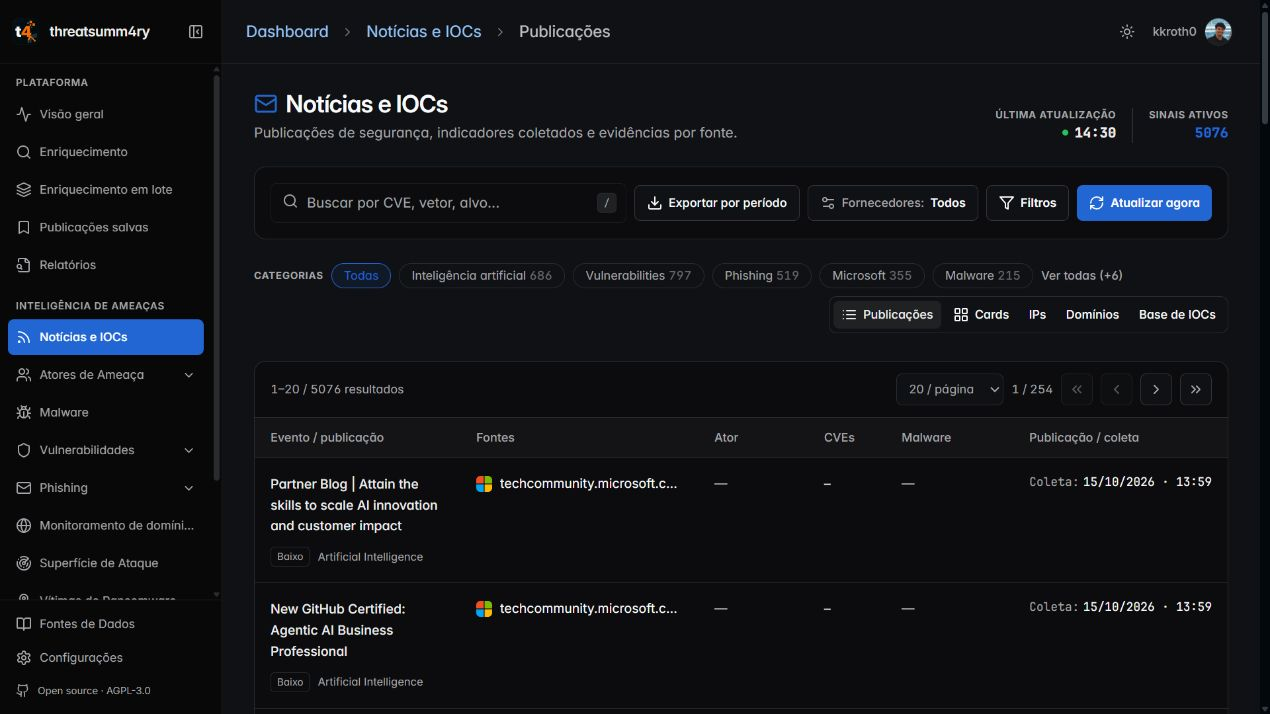
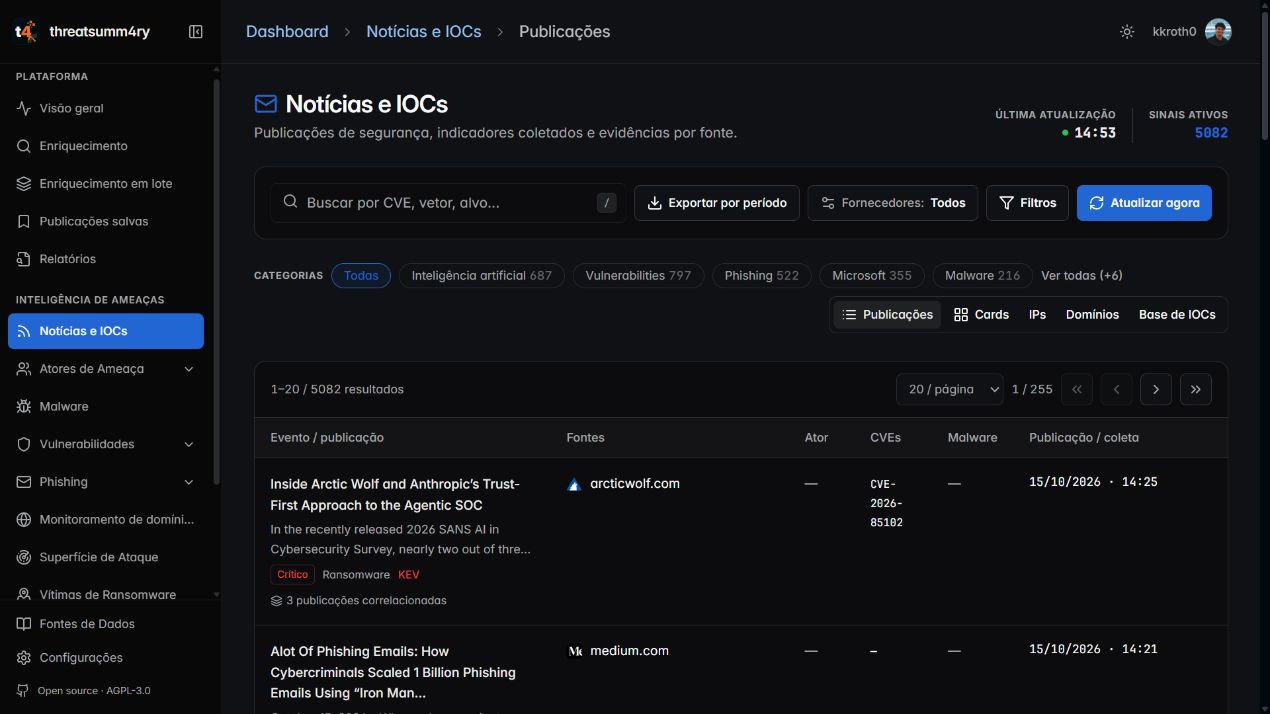
Record production correlation replay, completed cycle and final integrity checks

diff --git a/docs/qa/2026-10-15/news-feed-performance.md b/docs/qa/2026-10-15/news-feed-performance.md
@@ -129,5 +129,50 @@ Regressões cobrem reutilização da mesma instância de evento/fonte após relo
 canônico, ausência de gravação redundante do arquivo, fingerprint estável no
 inventário e aplicação de mudanças reais nos hashes/atribuições. 725 testes backend
 passaram. Benchmark local de 1.000 publicações com entidades e reload canônico:
-776 → 15 ms, resultado igual e 1.000 eventos reaproveitados. A medição em VPS será
-registrada após a publicação desta correção.
+776 → 15 ms, resultado igual e 1.000 eventos reaproveitados.
+
+### Publicação e reprodução com a base real
+
+- Release `0702bc5126aafbc5548a5233903977258698288a`.
+- CI [38780242772](https://github.com/kkroth0/thre4th-summary/actions/runs/38780242772):
+  725 backend + 255 frontend/marca, TypeScript/build aprovados, lint sem erros.
+- [VPS 38780556389](https://github.com/kkroth0/thre4th-summary/actions/runs/38780556389)
+  e [Cloudflare 38780556143](https://github.com/kkroth0/thre4th-summary/actions/runs/38780556143)
+  concluídos com sucesso.
+- Replay somente em memória [38780974320](https://github.com/kkroth0/thre4th-summary/actions/runs/38780974320),
+  usando o módulo efetivamente publicado e o snapshot SQLite real: 2.700
+  publicações em 3.120 ms, todos os 5.062 eventos reaproveitados por referência,
+  zero publicações sem evento e zero mudanças de vínculo. Não grava no banco
+  nem chama fontes externas. Script de diagnóstico no ref `d70d3ba`.
+- Leitura validada do banco nessa execução: 10.815 ms (baseline 29.501 ms).
+  Resposta HTTP fria: 1.503 ms. Os números variam com a carga da VPS; o tempo de
+  replay não equivale ao tempo total da coleta com rede, extração e persistência.
+- Navegador após publicação: 5.082 eventos, sem novo erro de carregamento.
+  A captura foi atualizada para esse estado. As fontes externas continuam
+  apresentando HTTP 403 em parte dos corpos; essa limitação não foi ocultada.
+
+### Primeiro ciclo real após a correção de ordem
+
+Auditoria [38781722597](https://github.com/kkroth0/thre4th-summary/actions/runs/38781722597):
+o log de conclusão do novo processo registra 377.497 ms (6min17s), 2.702
+publicações, correlação de 1.828 ms e publicação de 28.846 ms. O ciclo anterior
+instrumentado levou 636.080 ms (10min36s), com correlação de 227.757 ms e publicação
+de 283.966 ms. São ciclos reais com insumos diferentes; não é um benchmark de
+mesmas entradas. O replay sem gravação acima complementa essa comparação.
+
+Tempos restantes: feeds 153.001 ms; scrapers 402 ms; corpos 10.327 ms; extração
+168.694 ms; vulnerabilidades 2.652 ms; inventário 9.663 ms; phishing 813 ms;
+cache 2.995 ms. Próximas otimizações devem priorizar coleta externa e evitar
+reextração de conteúdo idêntico, com invalidação por versões dos catálogos/regras
+e suplementos de IOC. A aprovação desta release não significa que todo o produto
+ou todas as fontes estejam livres de latência/falhas externas.
+
+O snapshot do auditor começou após o commit da geração 17 e antes de o coletor
+registrar o término no SQLite; por isso `lastCycles` dessa leitura ainda lista o
+ciclo anterior. O tempo novo vem do log agregado do processo.
+
+Integridade posterior ao término [38781928009](https://github.com/kkroth0/thre4th-summary/actions/runs/38781928009),
+às 15:00:21 de Fortaleza: geração 17, 7.551 publicações e 5.068 eventos; zero
+ausências, diferenças, fontes órfãs, aliases conflitantes ou fontes duplicadas.
+Backup JSON igual ao SQLite, confirmado para a mesma geração. Sem perda de
+identidade/vínculos detectada pelos invariantes de persistência desta auditoria.
